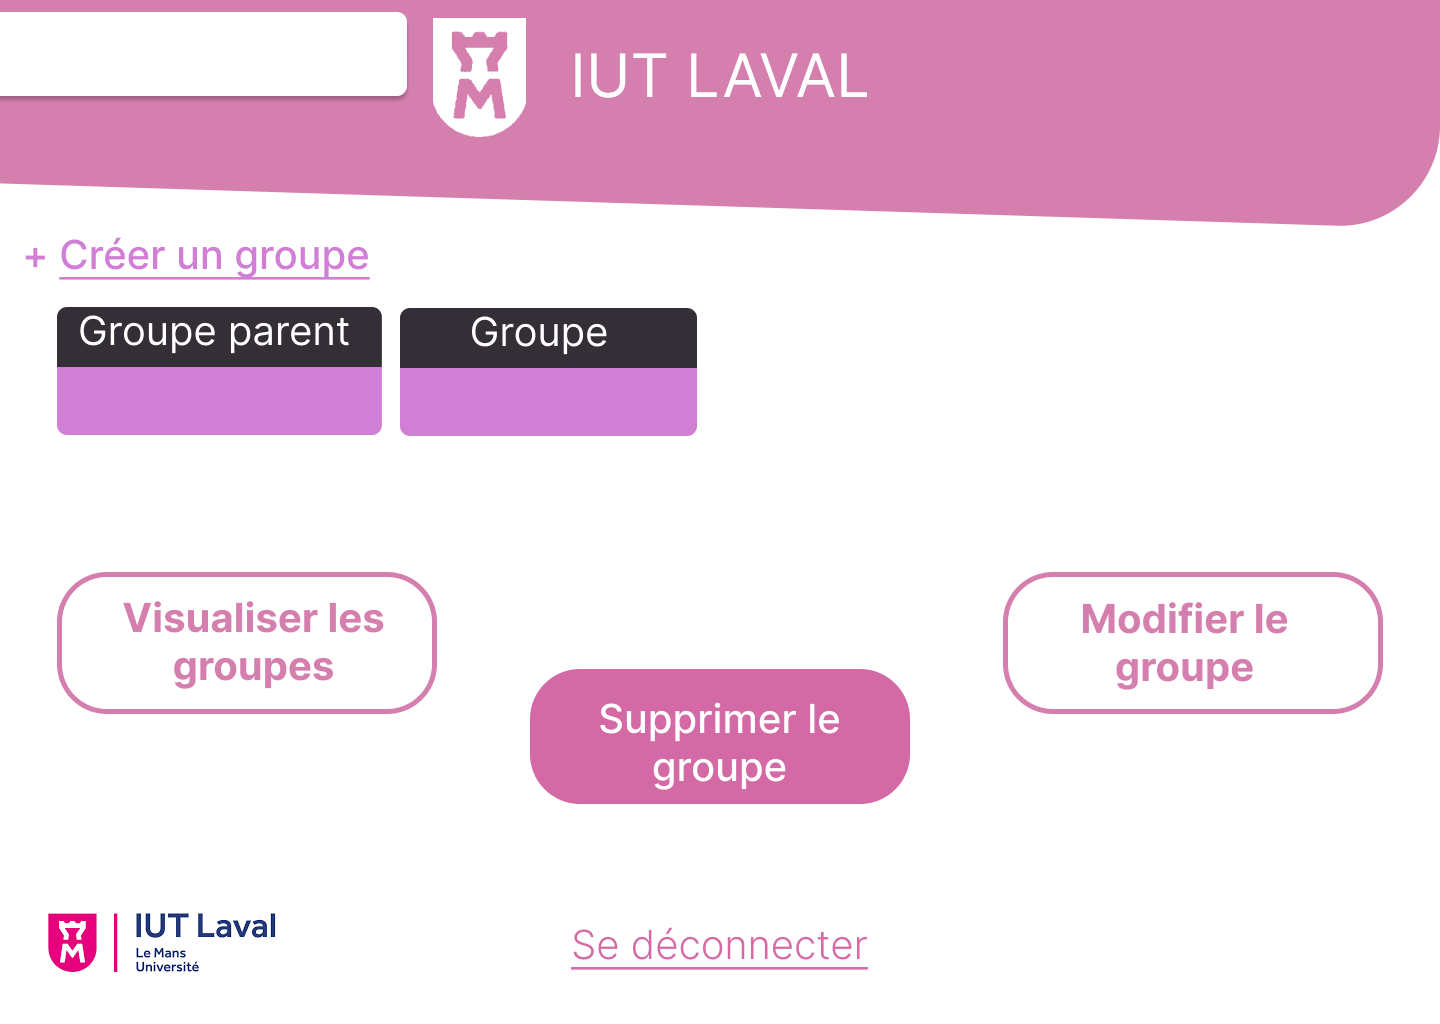
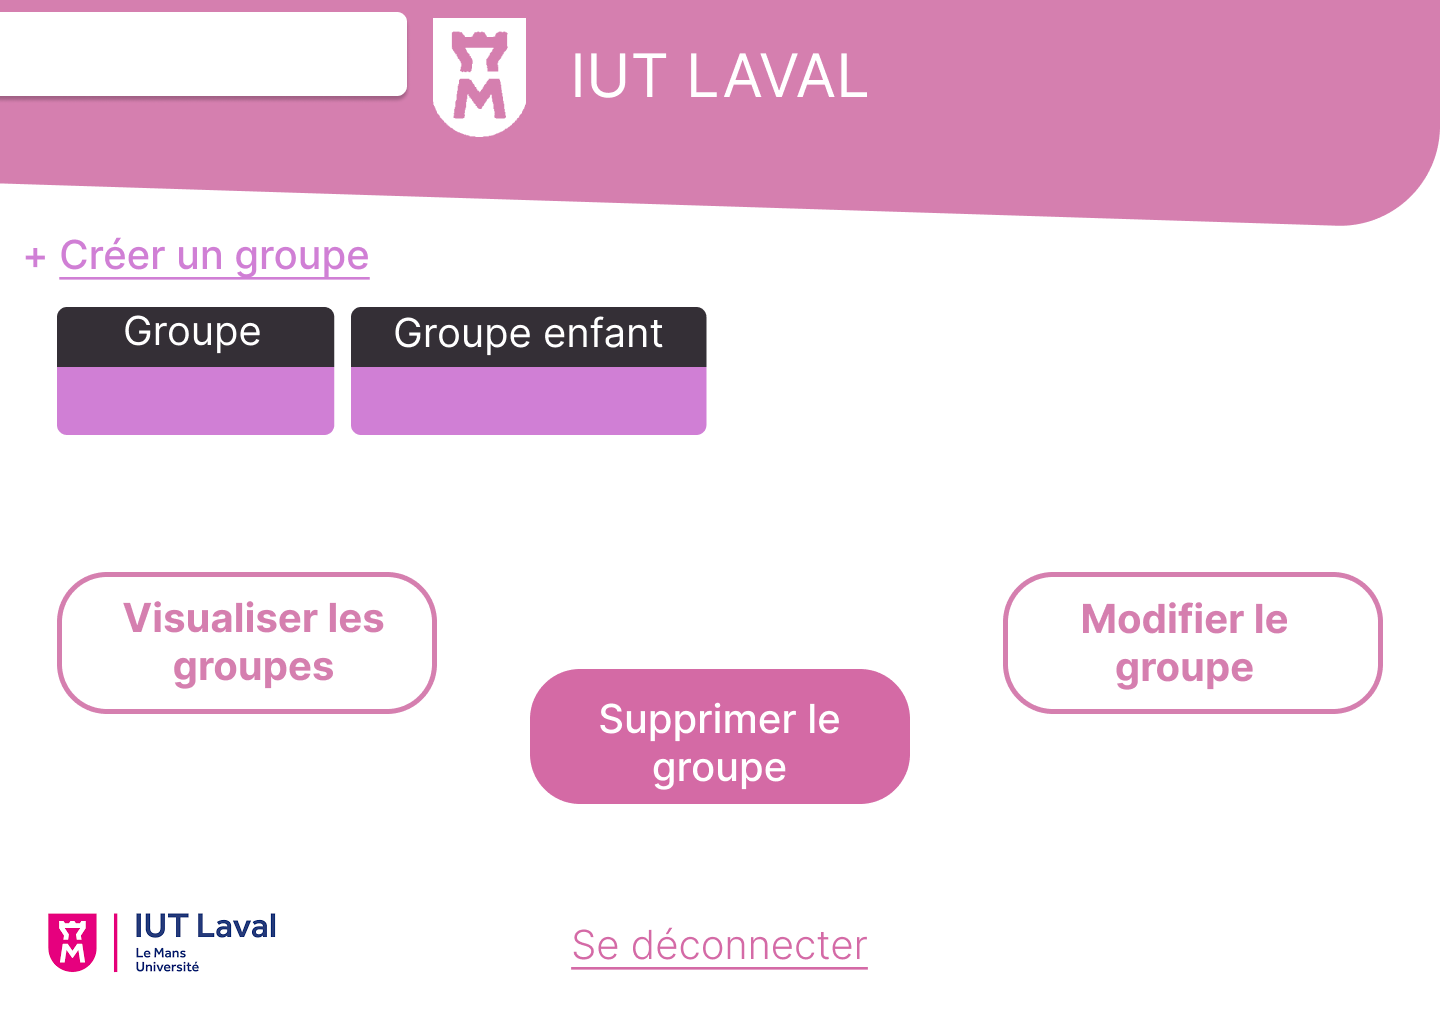
Mise a jour des pages pour le concepte de groupe enfant

Changed region(s): [[0.0625, 0.2812, 0.5, 0.4375]]

diff --git a/SAE204/src/main/java/com/example/sae204/Controller/EtudiantController.java b/SAE204/src/main/java/com/example/sae204/Controller/EtudiantController.java
@@ -1,9 +1,7 @@
 package com.example.sae204.Controller;
 
 
-import com.example.sae204.EtudiantAPK;
 import com.example.sae204.Modele.DAO;
-import com.example.sae204.Modele.Etudiant;
 import javafx.event.ActionEvent;
 import javafx.fxml.FXML;
 import javafx.fxml.Initializable;
@@ -43,8 +41,8 @@ public class EtudiantController extends  Controller implements Initializable{
 
     @FXML
     void onVisuTrombiEtuButtonClick(ActionEvent event) {
-        VisualiserTrombiEtuController.num_etu = num_etu;
-        GoToPage("VisualiserTrombiEtu.fxml", "Visualiser trombinoscope");
+        EtudiantTrombiController.num_etu = num_etu;
+        GoToPage("EtudiantTrombi.fxml", "Visualiser trombinoscope");
     }
 
     @Override

diff --git a/SAE204/src/main/java/com/example/sae204/Controller/EtudiantTrombiController.java b/SAE204/src/main/java/com/example/sae204/Controller/EtudiantTrombiController.java
@@ -15,7 +15,7 @@ import java.net.URL;
 import java.sql.SQLException;
 import java.util.ResourceBundle;
 
-public class VisualiserTrombiEtuController extends Controller implements Initializable{
+public class EtudiantTrombiController extends Controller implements Initializable{
 
     public static String num_etu;
 
@@ -172,7 +172,7 @@ public class VisualiserTrombiEtuController extends Controller implements Initial
     @FXML
     private Label adressemaillabel;
 
-    public VisualiserTrombiEtuController() throws MalformedURLException{
+    public EtudiantTrombiController() throws MalformedURLException{
     }
 
     @FXML
